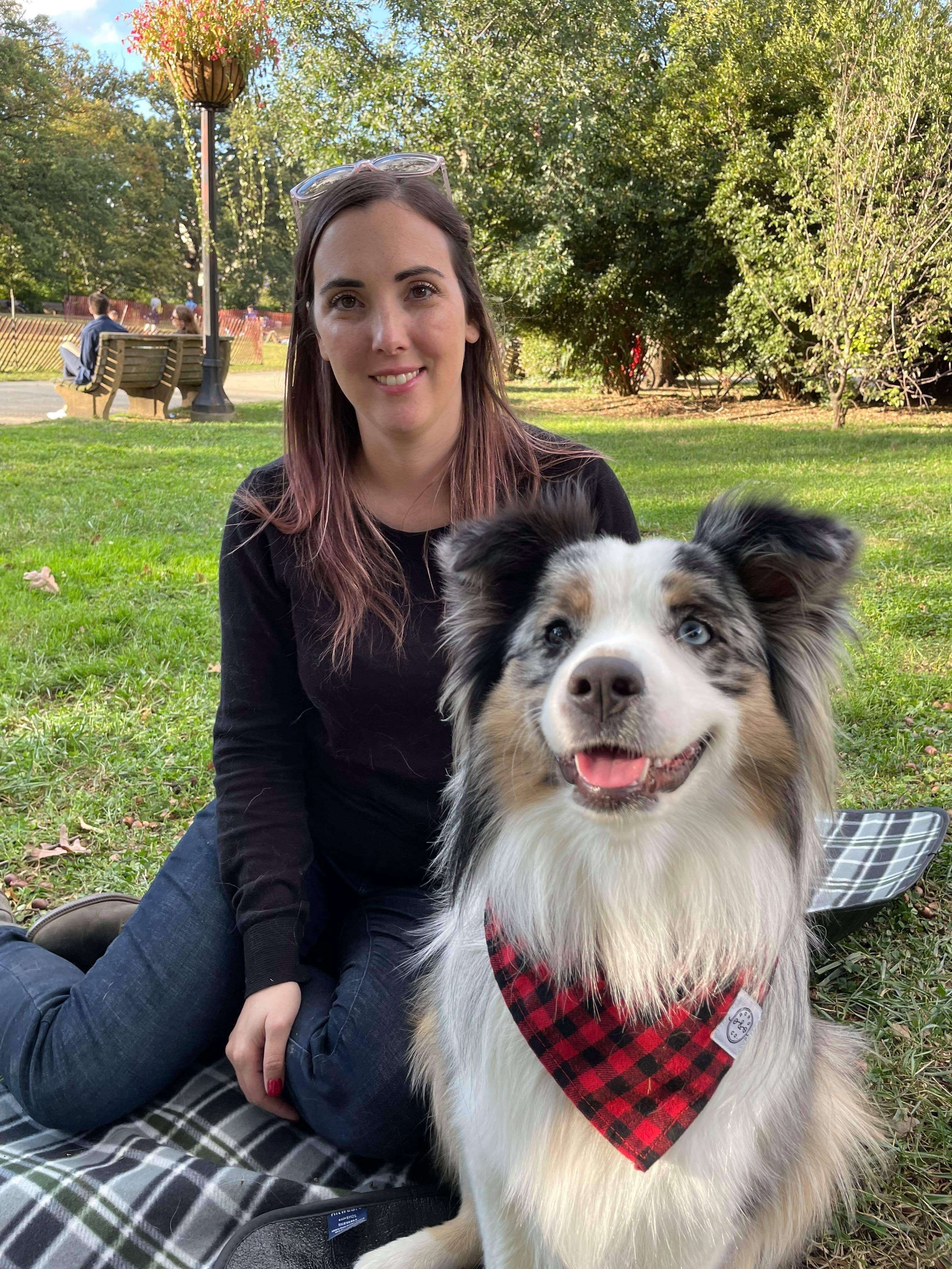
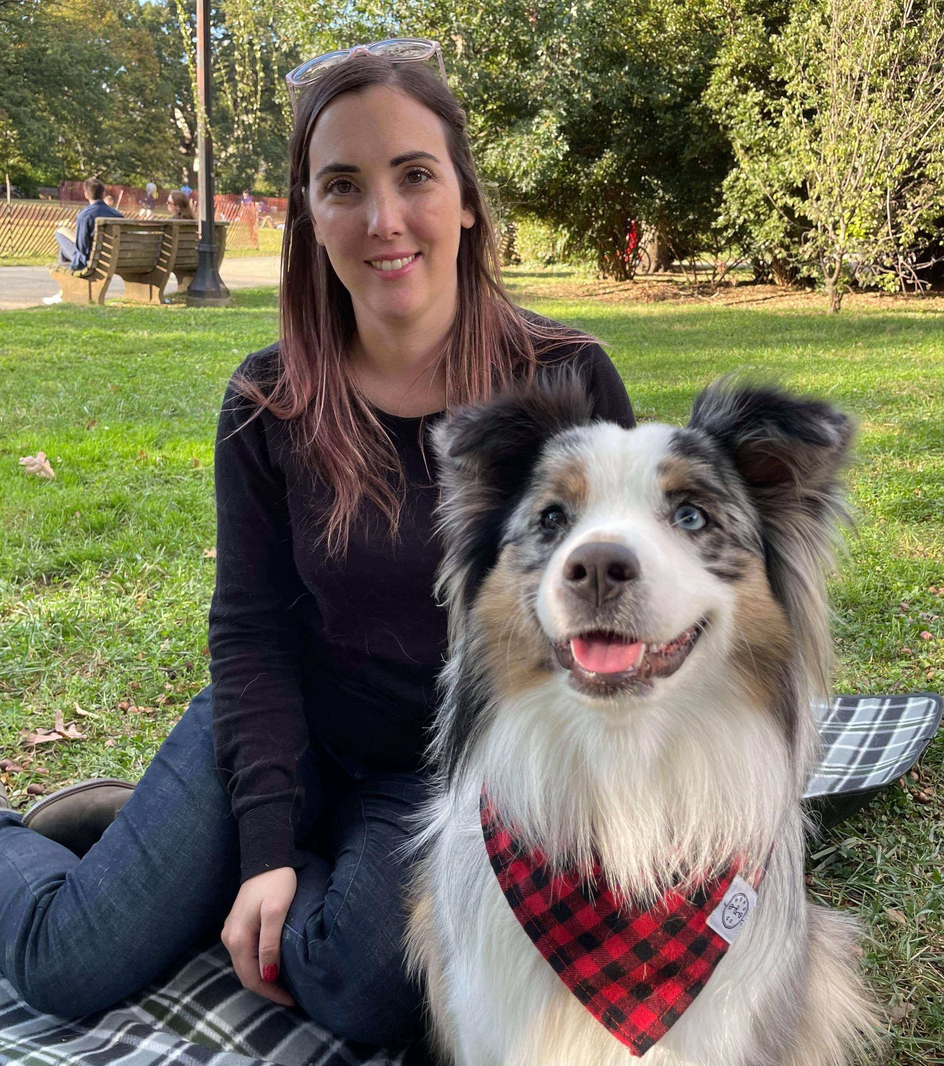
Resize images

diff --git a/src/components/About.js b/src/components/About.js
@@ -27,9 +27,11 @@ export default function About() {
                 </div>
                 <div className="lg:max-w-lg lg:w-full md:w-1/2 w-5/6">
                     <img
-                    className="object-cover object-center rounded"
+                    className="rounded-full flex-shrink-0 object-cover object-center"
                     alt="hero"
                     src="/IMG_3060.jpeg"
+                    width= "512px"
+                    height= "682px"
                     />
                 </div>
             </div>

diff --git a/src/components/Recommendations.js b/src/components/Recommendations.js
@@ -20,6 +20,8 @@ export default function Recommendations() {
                   <img
                     alt="recommendation"
                     src={recommendation.image}
+                    width="400px"
+                    height="400px"
                     className="w-12 rounded-full flex-shrink-0 object-cover object-center"
                   />
                   <span className="flex-grow flex flex-col pl-4">
